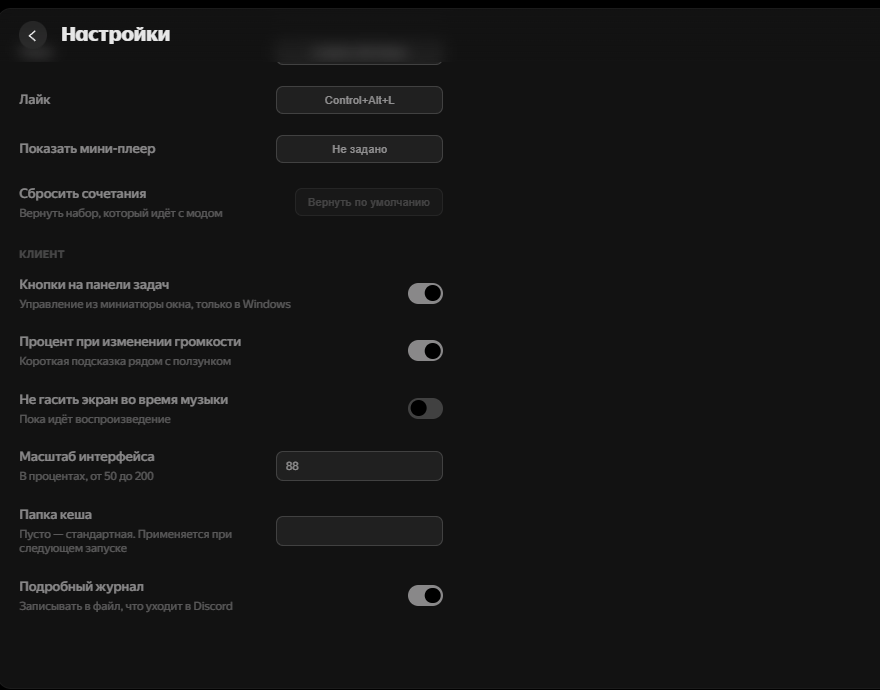
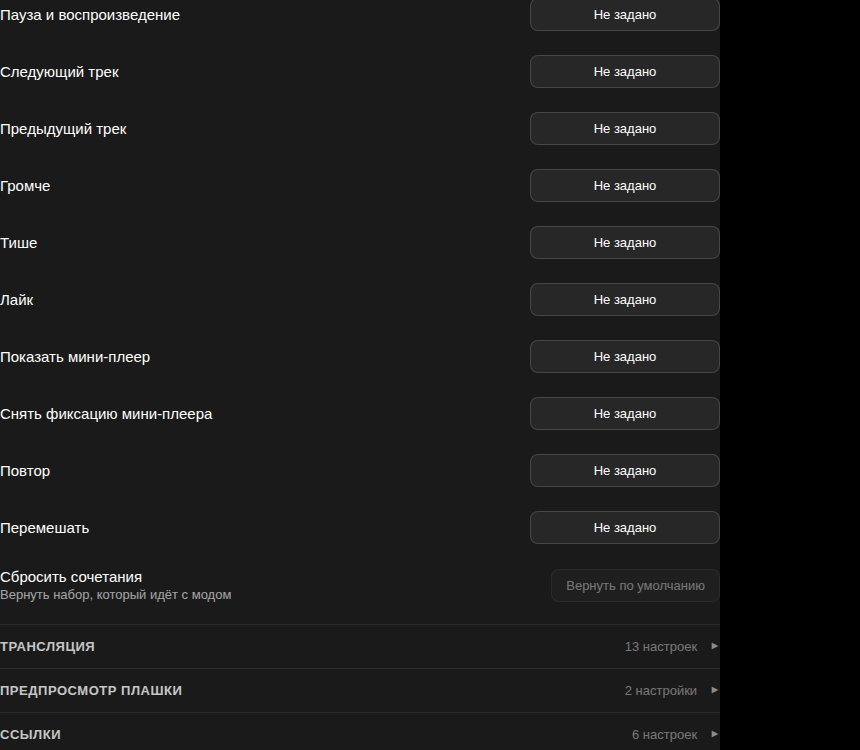
Описание проекта — по нынешним возможностям, со свежими снимками
Описание отстало от мода на полтора десятка настроек: не было ни плашки
для трансляции, ни поведения окна, ни мелочей панели плеера, а список
горячих клавиш обещал сочетания, которых мод не задаёт.

Теперь по каждому разделу написано, что именно он делает, и добавлены
снимки: окно установщика, разделы настроек, плашка в кадре и её
настройки с предпросмотром, поведение окна, горячие клавиши. Снимок
настроек заменён: прежний показывал сплошной список, которого больше нет.

То же самое перенесено в английское описание.

diff --git a/docs/en/README.md b/docs/en/README.md
@@ -68,9 +68,12 @@ so manual installation only makes sense on Linux.
 <details open>
 <summary>What it shows</summary>
 
-Track title, artists, album and cover art. Elapsed time is shown either as
-a progress bar in the profile card or as a counter — your choice. The title
-and the artist are clickable, and there are two buttons under the status.
+Track title, artists, album and cover art. The title and the artist are
+clickable — they lead to the track and artist pages on the Yandex Music
+site. Elapsed time is shown either as a progress bar in the profile card
+or as a counter, which is also visible in the voice channel card. The
+track title can replace the app name in the member list, and two buttons
+sit under the status.
 
 Works both in the regular player and in "Моя волна" (My Wave).
 
@@ -83,46 +86,91 @@ Works both in the regular player and in "Моя волна" (My Wave).
 
 ![Mini player](../images/miniplayer.png)
 
-A small always-on-top window: cover art, title, seeking by clicking the bar,
-volume behind a button with a percentage readout. Every element can be hidden.
+A small always-on-top window: cover art, scrolling title, artist, time and
+progress bar; play, next, previous, volume with a percentage readout and
+seeking by clicking the bar.
+
+- **Compact mode** — a shorter, narrower window
+- **Hide while nothing plays** — the window disappears instead of showing
+  "nothing is playing" and comes back with the first track
+- **Pinning** — the window becomes semi-transparent and stops catching the
+  mouse; a hotkey unpins it for a set number of seconds
+- **Resizable** with a remembered size and position, optionally shown in
+  the taskbar
+
+</details>
+
+### Now playing overlay for streams
+
+<details open>
+<summary>For OBS and friends</summary>
+
+![Overlay](../images/stream.png)
+
+The mod serves a page at `http://127.0.0.1:8462/` — add it to OBS as a
+Browser source. The address is bound to the local machine only, so the
+overlay is not reachable from the network.
+
+Almost everything is configurable: dark, light or fully transparent
+backdrop, cover art and its size, progress bar, numeric time, custom
+colours for the title, artist and time, text size and a fixed width — the
+overlay never jumps around when a long title arrives, it scrolls instead.
+Changes apply instantly, no need to reload the source in OBS. The settings
+page shows a live preview.
+
+![Overlay settings](../images/settings-stream.png)
+
+</details>
+
+### Window and system
+
+<details open>
+<summary>How the client behaves</summary>
+
+![Window and system](../images/settings-window.png)
+
+- **Close to tray** — the close button hides the window, music keeps playing
+- **Start with the system** and **start minimized**
+- **Remember window size** and **startup page**
+- **Hardware acceleration** — turn it off if the picture flickers
+- **Control this computer from other devices** — your phone or speaker can
+  switch tracks here
 
 </details>
 
 ### Global hotkeys
 
 <details>
-<summary>Defaults and how to change them</summary>
+<summary>What can be bound</summary>
 
 They work over other windows — from a game, a browser, anywhere.
 
-| Action | Default |
-| --- | --- |
-| Play / pause | `Ctrl+Alt+Space` |
-| Next track | `Ctrl+Alt+→` |
-| Previous track | `Ctrl+Alt+←` |
-| Volume up / down | `Ctrl+Alt+↑` / `Ctrl+Alt+↓` |
-| Like | `Ctrl+Alt+L` |
-| Show mini player | not set |
+Play / pause, next and previous track, volume up and down, like, repeat,
+shuffle, show the mini player and unpin it.
 
-Any combination can be changed in the settings: click the field and press
-your own. `Backspace` clears a binding, "Вернуть по умолчанию" restores
-the whole set.
+No combination is bound by default: pick your own so they do not clash with
+other programs. Click the field and press a combination, `Backspace` clears
+it. A combination already taken by another program is highlighted in red.
 
 ![Hotkeys](../images/settings-hotkeys.png)
 
 </details>
 
-### Everything else
+### Player bar and everything else
 
 <details>
 <summary>The list</summary>
 
+- **Always show track time** — normally it appears only on hover
+- **No recolouring from the cover art** — the bar stays dark
+- **Thicker progress bar** — easier to hit when seeking
+- **Static backdrop instead of the My Wave animation** — for weak machines
 - **Taskbar thumbnail buttons on Windows** — control playback without
   restoring the window
-- **Volume percentage** — a short hint next to the slider
+- **Volume percentage** — a short hint next to the slider, with a custom
+  wheel step
 - **Controlling other devices** — run your phone or speaker from the desktop
 - **Interface scale** — from 50 to 200 percent
-- **Custom cache folder** — keep it off the system drive
 - **Keep the screen awake while music plays**
 
 </details>
@@ -131,11 +179,16 @@ the whole set.
 
 ## Settings
 
-Everything is managed inside the client and applied immediately.
+Everything is managed inside the client: **Settings → KotaMusic**. Changes
+apply immediately unless stated otherwise.
 
-![Settings](../images/settings.png)
+There are more than sixty settings, so they are grouped into collapsible
+sections — only the headings with a count are visible at first.
+
+![Settings](../images/settings-sections.png)
 
 ---
+
 
 ## How it works
 
